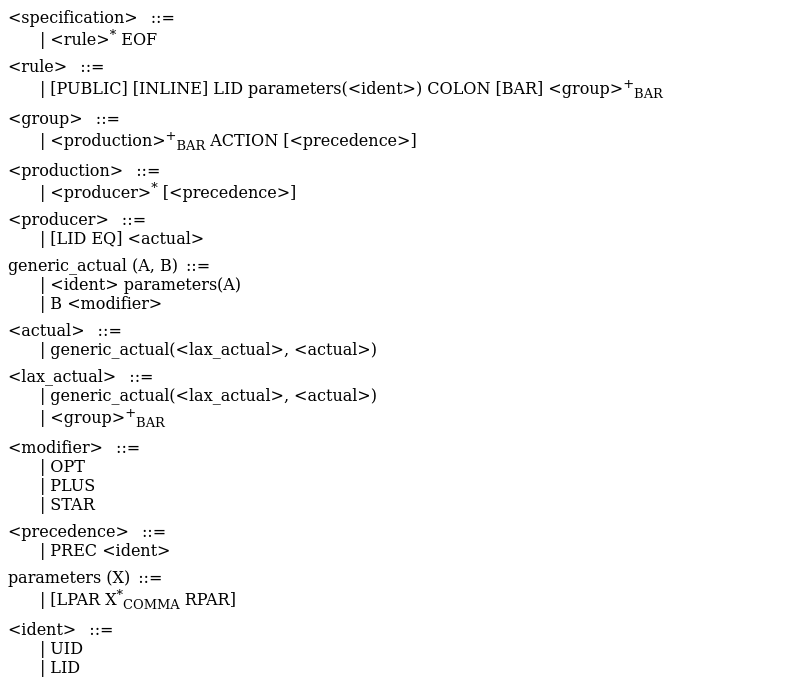
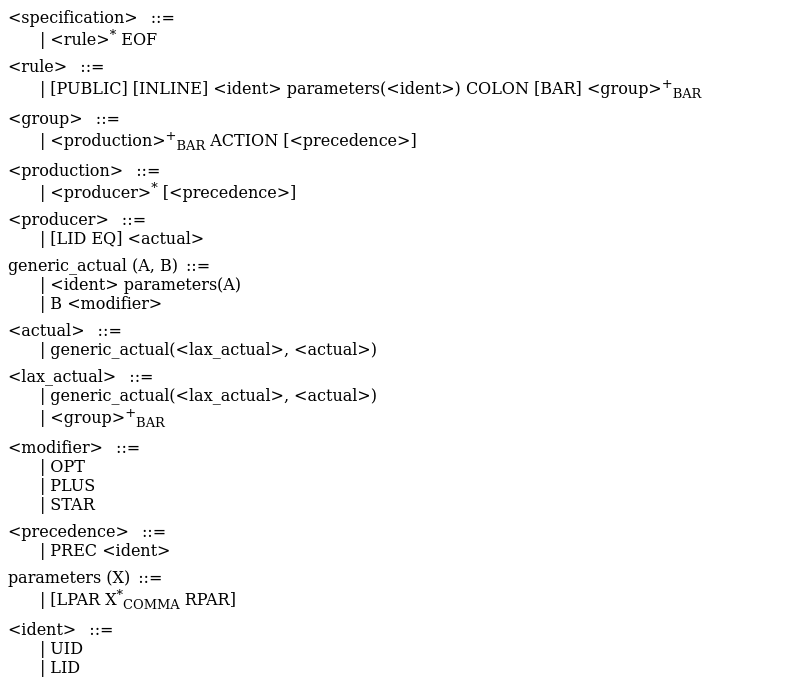
rules can begin with an uppercase

Changed region(s): [[0.25, 0.1226, 0.875, 0.1533]]

diff --git a/README.md b/README.md
@@ -100,7 +100,7 @@ Here are the different formats output obtained by **MenhirBrav** from its own [p
   | <rule>* EOF
 
 <rule> ::=
-  | [PUBLIC] [INLINE] LID parameters(<ident>) COLON [BAR] <group> (BAR <group>)*
+  | [PUBLIC] [INLINE] <ident> parameters(<ident>) COLON [BAR] <group> (BAR <group>)*
 
 <group> ::=
   | <production> (BAR <production>)* ACTION [<precedence>]
@@ -136,7 +136,6 @@ parameters(X) ::=
 <ident> ::=
   | UID
   | LID
-
 ```
 
 #### LaTeX
